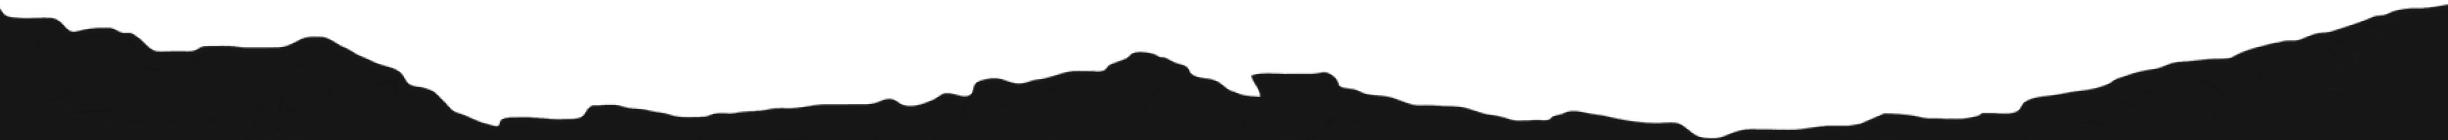
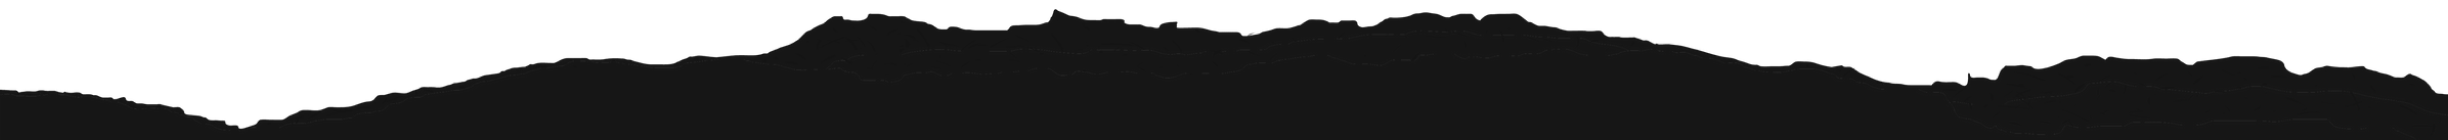
Tune landing page visuals

diff --git a/styles/main.css b/styles/main.css
@@ -14,7 +14,7 @@
   --page-max: 1180px;
   --content-pad: clamp(20px, 5vw, 72px);
   --section-pad: clamp(72px, 12vw, 180px);
-  --separator-min-width: 960px;
+  --separator-min-width: 1200px;
   --radius-sm: 8px;
   --shadow-soft: 0 22px 50px rgb(0 0 0 / 18%);
 }
@@ -167,7 +167,7 @@ a:focus-visible {
 .display-hand {
   margin: 0;
   font-family: var(--font-hand);
-  font-size: clamp(1.7rem, 1.25rem + 1.8vw, 3rem);
+  font-size: clamp(1.1rem, 2.5vw, 2.25rem);
   font-weight: 400;
   letter-spacing: 0;
   line-height: 1.28;
@@ -186,7 +186,7 @@ a:focus-visible {
 
 .body-copy {
   margin: 0;
-  font-size: clamp(0.9rem, 0.82rem + 0.25vw, 1.05rem);
+  font-size: clamp(0.75rem, 0.67rem + 0.2vw, 0.875rem);
   font-weight: 300;
   line-height: 1.5;
 }
